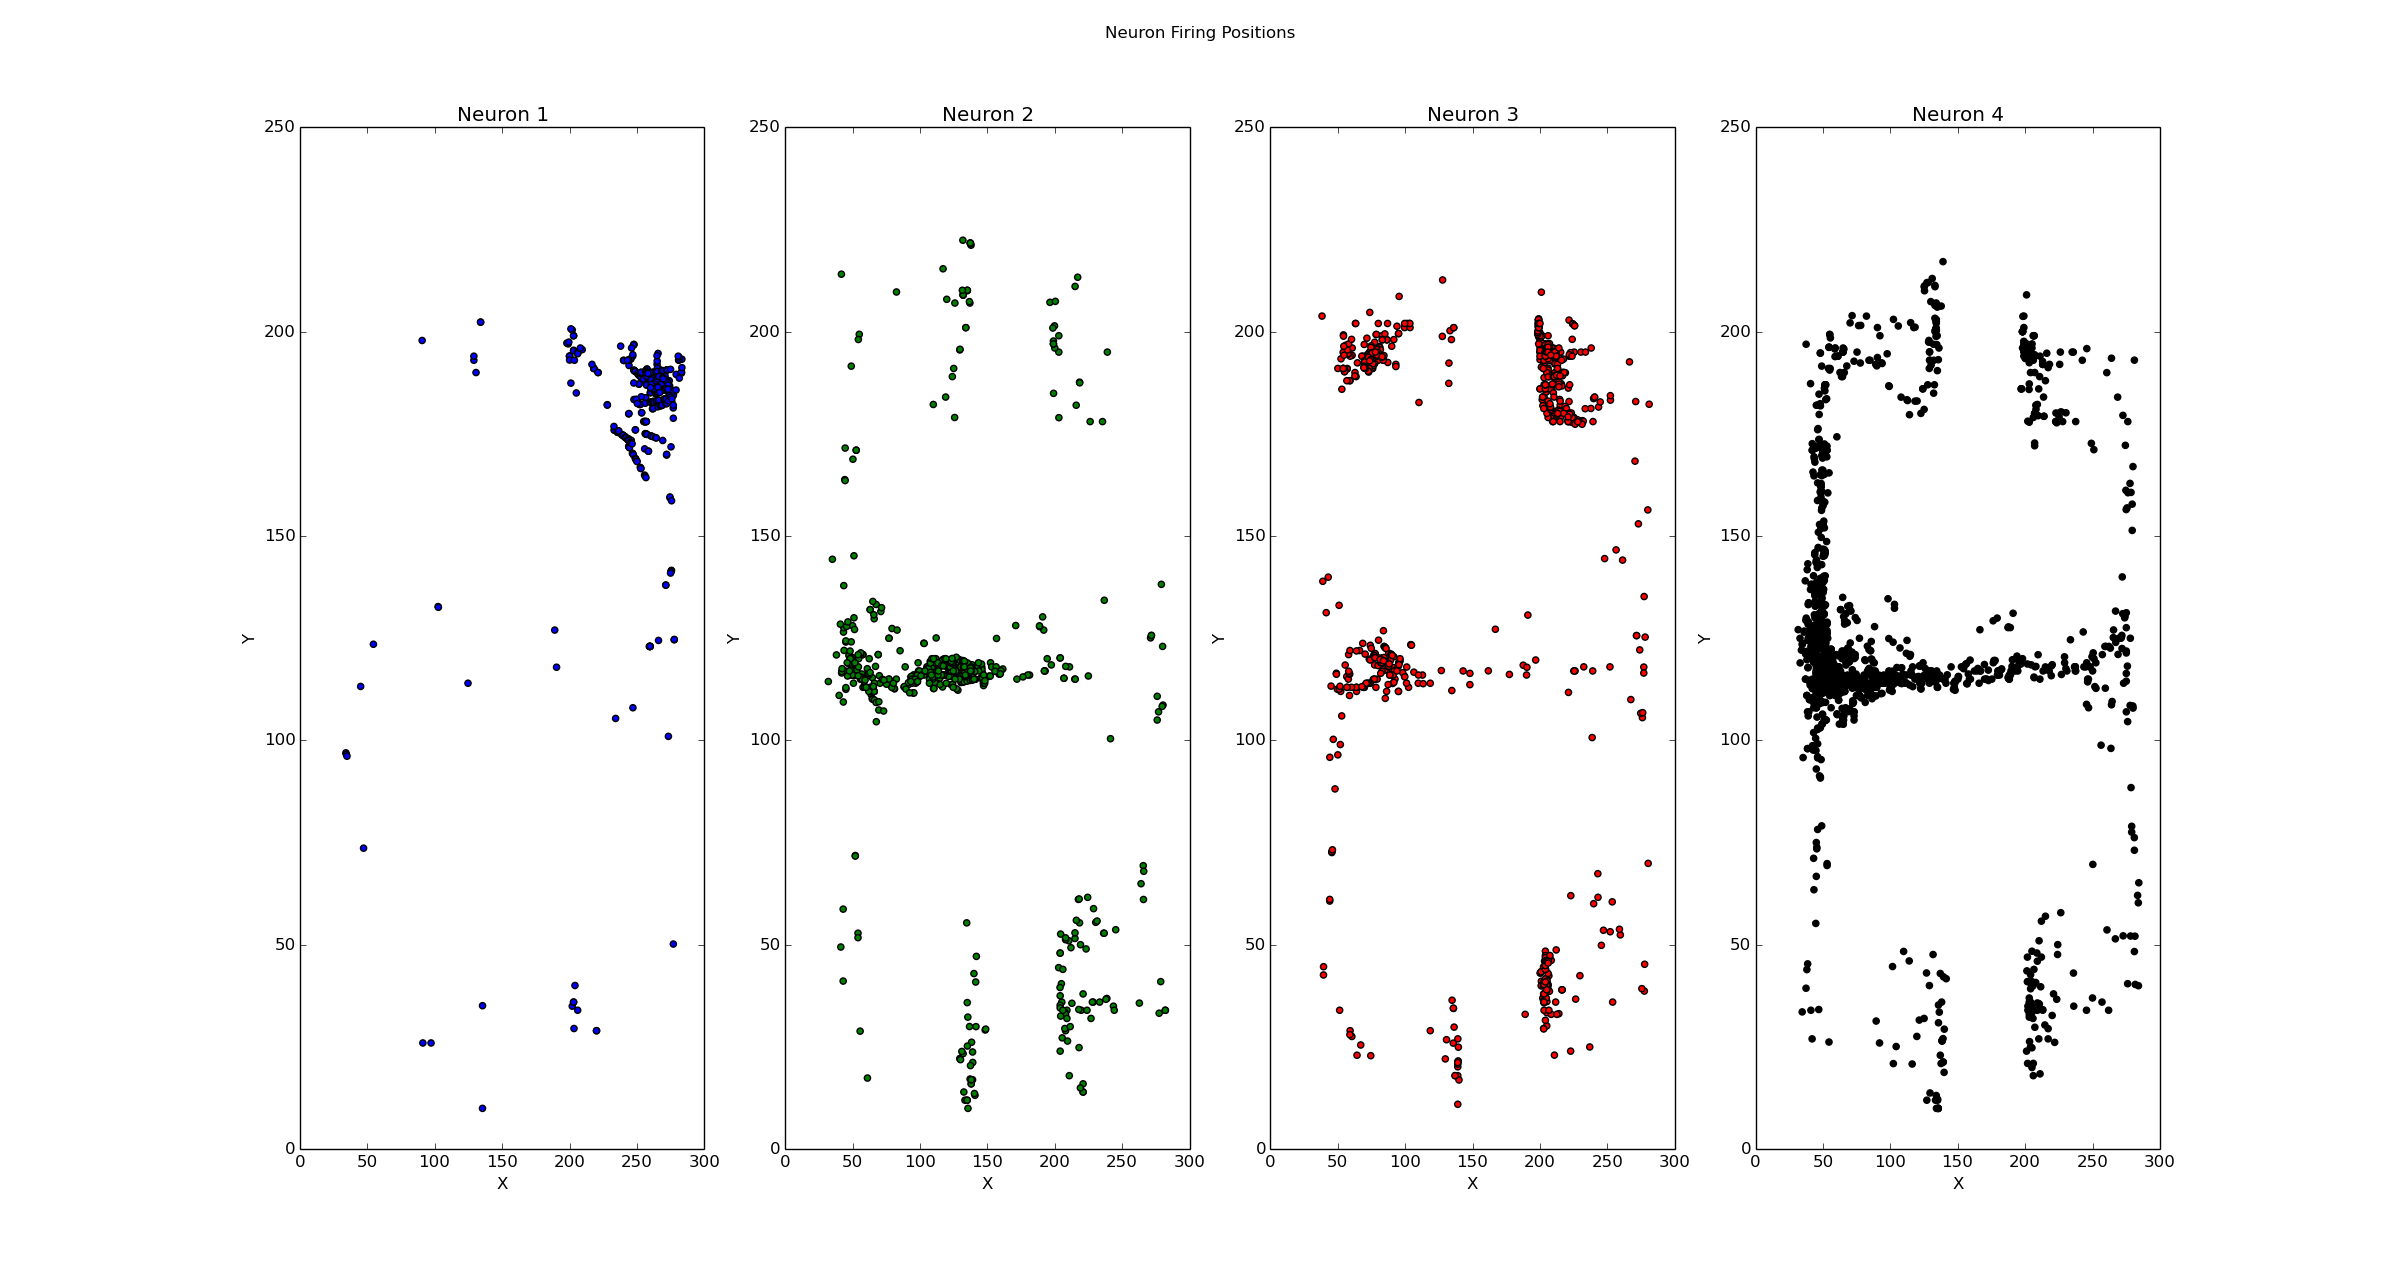
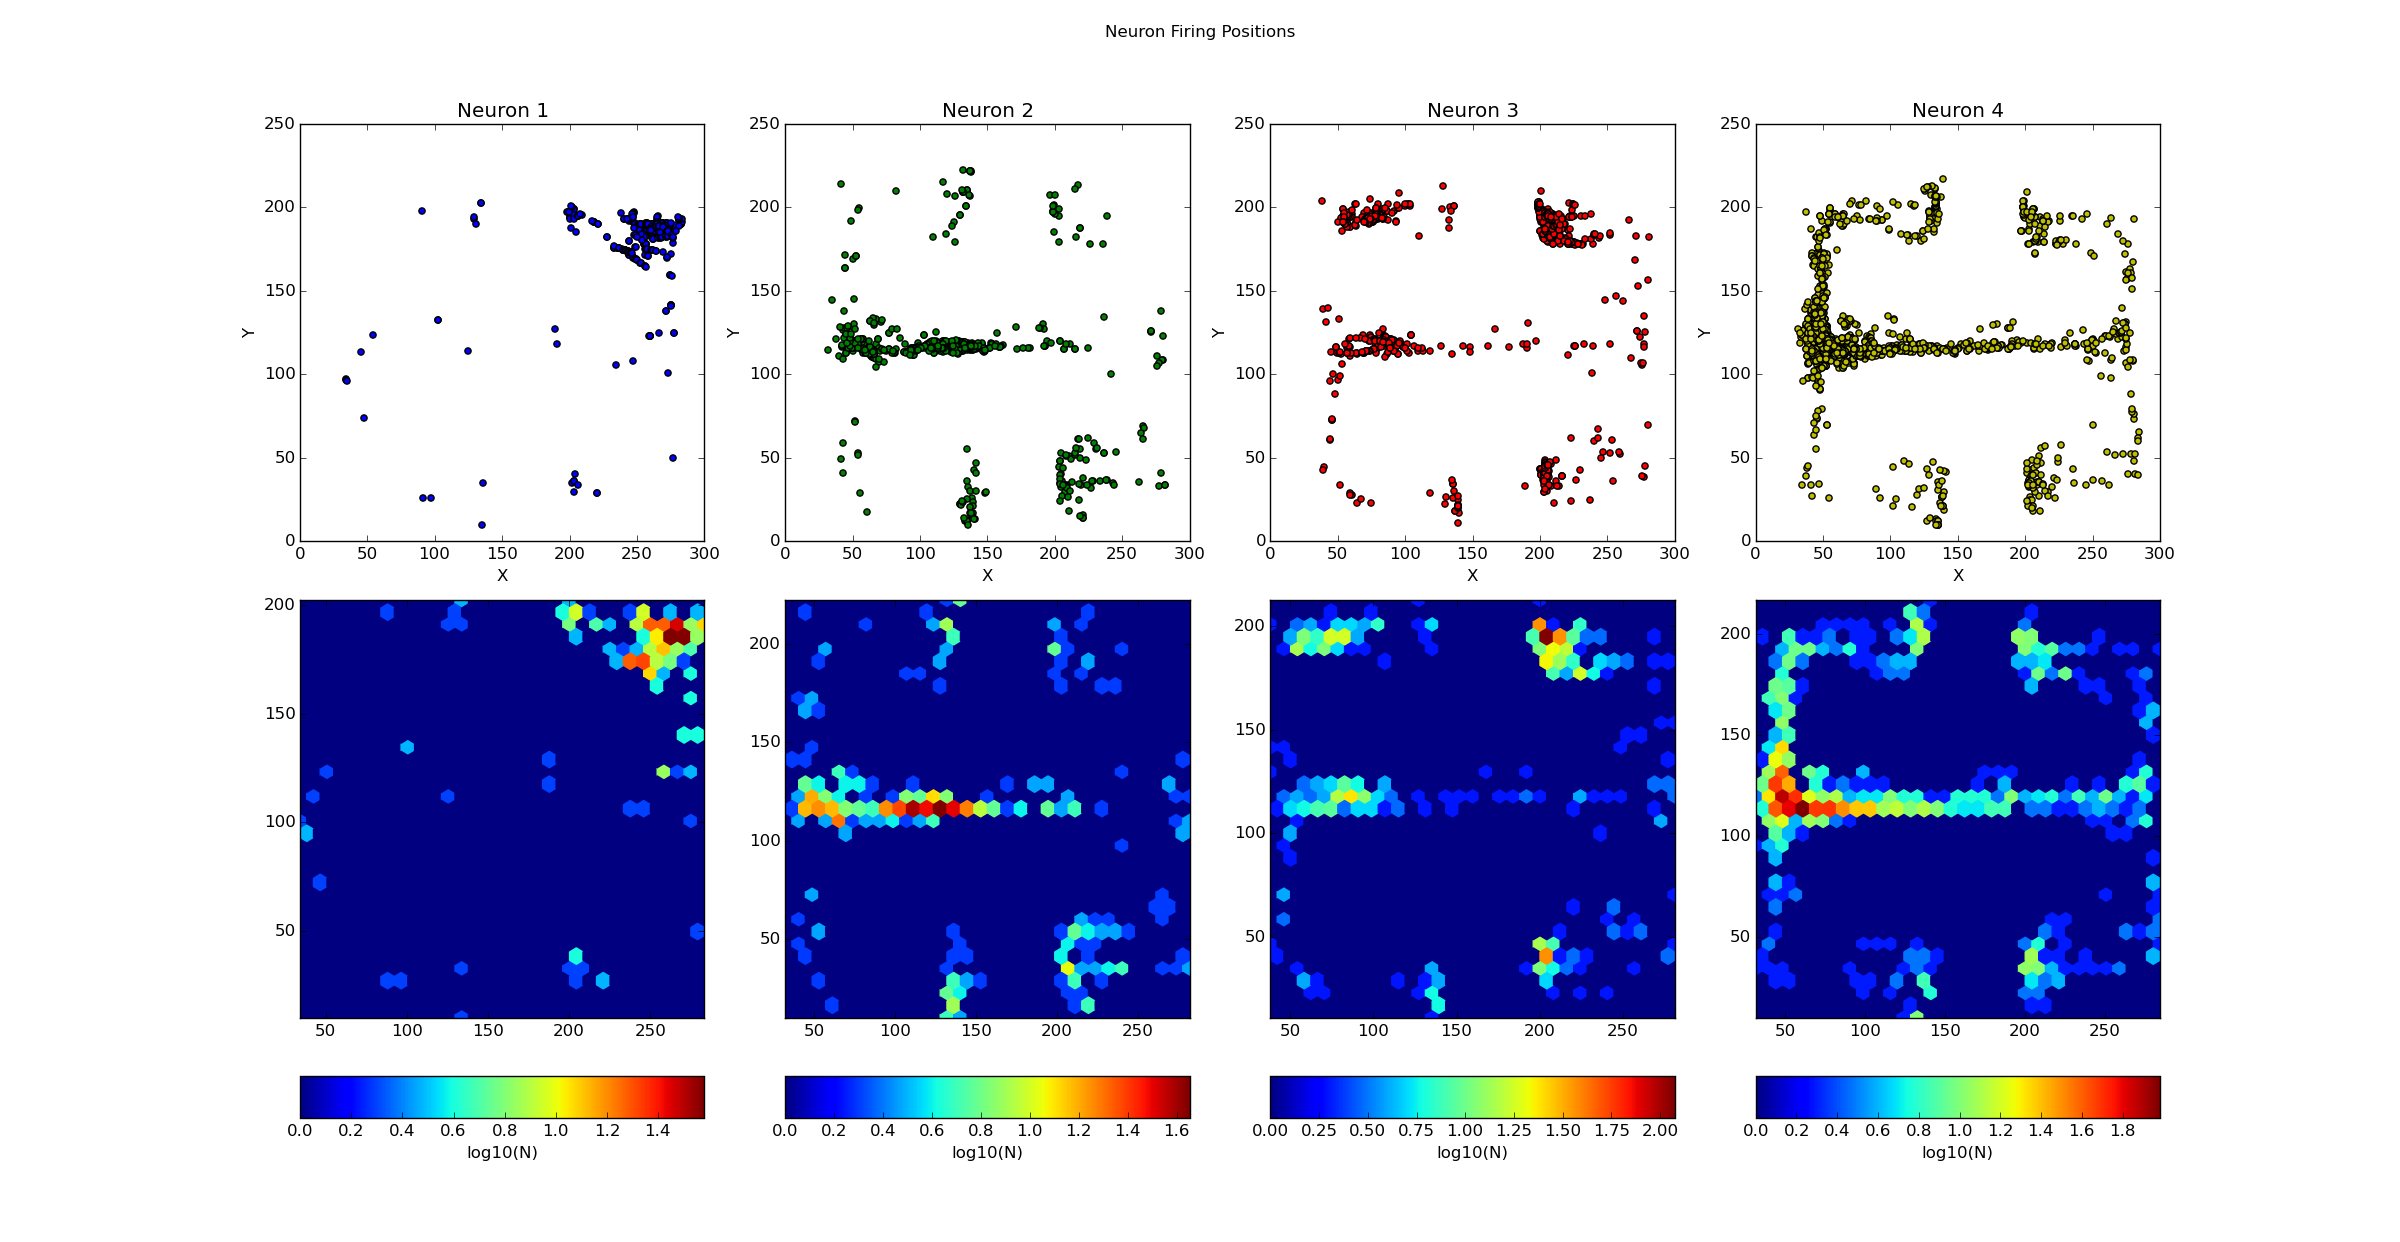
Need to update to new matplotlib. Scale in subplots. Save new output to image.

diff --git a/COMS30127/rat/rat.py b/COMS30127/rat/rat.py
@@ -48,7 +48,7 @@ def binsearch_time_pos(times, x, y, target_time):
         return (interp_x, interp_y)
 
 def neuron_pos_plot(times, x, y, neuron):
-    fig, ax = plt.subplots(2, 4)
+    fig, ax = plt.subplots(3, 4, gridspec_kw={'height_ratios':[10,10,1]}) # Requires matplotlib 1.4
 
     neuron_pos = [[binsearch_time_pos(times, x, y, t) for t in n] for n in neuron]
     
@@ -66,7 +66,7 @@ def neuron_pos_plot(times, x, y, neuron):
         
         # Heatmap/hexplot
         im = ax[1][n].hexbin([pos[0] for pos in pos_list], [pos[1] for pos in pos_list], bins='log', gridsize=30)
-        cb = fig.colorbar(im, ax=ax[1][n])
+        cb = fig.colorbar(im, cax=ax[2][n], orientation='horizontal')
         cb.set_label('log10(N)')
 
     plt.show()
